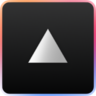
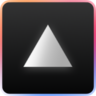
theme config

Changed region(s): [[0.2188, 0.25, 0.7812, 0.75]]

diff --git a/apps/docs/theme.config.jsx b/apps/docs/theme.config.jsx
@@ -5,7 +5,205 @@ export default {
   project: {
     link: 'https://github.com/shuding/nextra'
   },
-  logo: <strong>AI Utils</strong>,
+  logo: (
+    <span className="flex gap-2 font-bold text-lg items-center select-none">
+      <svg
+        xmlns="http://www.w3.org/2000/svg"
+        height="24"
+        fill="none"
+        viewBox="0 0 1024 1024"
+      >
+        <g clipPath="url(#clip0_102_208)">
+          <rect
+            width="977.455"
+            height="977.455"
+            x="23.273"
+            y="23.273"
+            fill="url(#paint0_linear_102_208)"
+            rx="79.515"
+          ></rect>
+          <g filter="url(#filter0_di_102_208)">
+            <path
+              fill="url(#paint1_linear_102_208)"
+              d="M511.03 306.424l210.424 362.667H300.606L511.03 306.424z"
+            ></path>
+          </g>
+          <mask
+            id="mask0_102_208"
+            style={{ maskType: 'alpha' }}
+            width="1024"
+            height="1024"
+            x="0"
+            y="0"
+            maskUnits="userSpaceOnUse"
+          >
+            <rect
+              width="1000.73"
+              height="1000.73"
+              x="11.636"
+              y="11.636"
+              stroke="#000"
+              strokeWidth="23.273"
+              rx="91.151"
+            ></rect>
+          </mask>
+          <g filter="url(#filter1_f_102_208)" mask="url(#mask0_102_208)">
+            <path
+              fill="url(#paint2_linear_102_208)"
+              d="M-88.638 197.111l277.355-340.626L630.689 41.738c37.58 187.244 55.072 561.734-175.591 561.734-194.273 0-240.351-110.687-239.325-192.224-23.622 150.658-122.154 378.807-377.242 339.629-43.1-30.278 30.596-381.793 72.83-553.766z"
+            ></path>
+            <path
+              fill="url(#paint3_linear_102_208)"
+              d="M514.513 329.324l339.424 273.797 333.033 24.789c-80.41 173.273-287.78 485.83-473.947 349.874-186.167-135.958-279.862 250.156-219.226 197.766-94.394 110.83-164.922-242.362-365.58-442.213-16.878-49.841 250.498-290.109 386.296-404.013z"
+            ></path>
+            <path
+              fill="url(#paint4_linear_102_208)"
+              d="M987.377 739.387L569.385 614.252 251.741 717.175c8.717-190.768 82.117-558.433 305.986-502.955 223.869 55.478 164.166-337.305 127.908-265.904 45.342-138.248 244.558 161.995 506.075 271.134 34.52 39.752-121.84 363.188-204.333 519.937z"
+            ></path>
+          </g>
+        </g>
+        <defs>
+          <filter
+            id="filter0_di_102_208"
+            width="579.879"
+            height="521.697"
+            x="221.091"
+            y="242.424"
+            colorInterpolationFilters="sRGB"
+            filterUnits="userSpaceOnUse"
+          >
+            <feFlood floodOpacity="0" result="BackgroundImageFix"></feFlood>
+            <feColorMatrix
+              in="SourceAlpha"
+              result="hardAlpha"
+              values="0 0 0 0 0 0 0 0 0 0 0 0 0 0 0 0 0 0 127 0"
+            ></feColorMatrix>
+            <feOffset dy="15.515"></feOffset>
+            <feGaussianBlur stdDeviation="39.758"></feGaussianBlur>
+            <feComposite in2="hardAlpha" operator="out"></feComposite>
+            <feColorMatrix values="0 0 0 0 0 0 0 0 0 0 0 0 0 0 0 0 0 0 0.25 0"></feColorMatrix>
+            <feBlend
+              in2="BackgroundImageFix"
+              result="effect1_dropShadow_102_208"
+            ></feBlend>
+            <feBlend
+              in="SourceGraphic"
+              in2="effect1_dropShadow_102_208"
+              result="shape"
+            ></feBlend>
+            <feColorMatrix
+              in="SourceAlpha"
+              result="hardAlpha"
+              values="0 0 0 0 0 0 0 0 0 0 0 0 0 0 0 0 0 0 127 0"
+            ></feColorMatrix>
+            <feOffset dx="0.97" dy="13.576"></feOffset>
+            <feGaussianBlur stdDeviation="0.97"></feGaussianBlur>
+            <feComposite
+              in2="hardAlpha"
+              k2="-1"
+              k3="1"
+              operator="arithmetic"
+            ></feComposite>
+            <feColorMatrix values="0 0 0 0 0.0286285 0 0 0 0 0.0404458 0 0 0 0 0.0708333 0 0 0 0.06 0"></feColorMatrix>
+            <feBlend in2="shape" result="effect2_innerShadow_102_208"></feBlend>
+          </filter>
+          <filter
+            id="filter1_f_102_208"
+            width="2146.91"
+            height="2115.88"
+            x="-562.424"
+            y="-531.394"
+            colorInterpolationFilters="sRGB"
+            filterUnits="userSpaceOnUse"
+          >
+            <feFlood floodOpacity="0" result="BackgroundImageFix"></feFlood>
+            <feBlend
+              in="SourceGraphic"
+              in2="BackgroundImageFix"
+              result="shape"
+            ></feBlend>
+            <feGaussianBlur
+              result="effect1_foregroundBlur_102_208"
+              stdDeviation="193.939"
+            ></feGaussianBlur>
+          </filter>
+          <linearGradient
+            id="paint0_linear_102_208"
+            x1="512"
+            x2="512"
+            y1="23.273"
+            y2="1000.73"
+            gradientUnits="userSpaceOnUse"
+          >
+            <stop stopColor="#333434"></stop>
+            <stop offset="1" stopColor="#060606"></stop>
+          </linearGradient>
+          <linearGradient
+            id="paint1_linear_102_208"
+            x1="249.709"
+            x2="750.212"
+            y1="532.522"
+            y2="688.409"
+            gradientUnits="userSpaceOnUse"
+          >
+            <stop stopColor="#fff"></stop>
+            <stop offset="0.089" stopColor="#FEFEFE"></stop>
+            <stop offset="0.161" stopColor="#FCFCFC"></stop>
+            <stop offset="0.22" stopColor="#F9F9F9"></stop>
+            <stop offset="0.267" stopColor="#F5F5F5"></stop>
+            <stop offset="0.305" stopColor="#F0F0F0"></stop>
+            <stop offset="0.336" stopColor="#EAEAEA"></stop>
+            <stop offset="0.364" stopColor="#E3E3E3"></stop>
+            <stop offset="0.391" stopColor="#DCDCDC"></stop>
+            <stop offset="0.418" stopColor="#D5D5D5"></stop>
+            <stop offset="0.45" stopColor="#CDCDCD"></stop>
+            <stop offset="0.488" stopColor="#C6C6C6"></stop>
+            <stop offset="0.535" stopColor="#BEBEBE"></stop>
+            <stop offset="0.593" stopColor="#B7B7B7"></stop>
+            <stop offset="0.666" stopColor="#B0B0B0"></stop>
+            <stop offset="0.755" stopColor="#AAA"></stop>
+          </linearGradient>
+          <linearGradient
+            id="paint2_linear_102_208"
+            x1="511.03"
+            x2="511.03"
+            y1="-143.515"
+            y2="1196.61"
+            gradientUnits="userSpaceOnUse"
+          >
+            <stop stopColor="#F90"></stop>
+            <stop offset="1" stopColor="#F09"></stop>
+          </linearGradient>
+          <linearGradient
+            id="paint3_linear_102_208"
+            x1="511.03"
+            x2="511.03"
+            y1="-420.532"
+            y2="923.552"
+            gradientUnits="userSpaceOnUse"
+          >
+            <stop stopColor="#00D1FF"></stop>
+            <stop offset="1" stopColor="#0057FF"></stop>
+          </linearGradient>
+          <linearGradient
+            id="paint4_linear_102_208"
+            x1="420.072"
+            x2="1100.96"
+            y1="571.6"
+            y2="202.116"
+            gradientUnits="userSpaceOnUse"
+          >
+            <stop stopColor="#AD00FF"></stop>
+            <stop offset="1" stopColor="red"></stop>
+          </linearGradient>
+          <clipPath id="clip0_102_208">
+            <path fill="#fff" d="M0 0H1024V1024H0z"></path>
+          </clipPath>
+        </defs>
+      </svg>
+      AI Utils
+    </span>
+  ),
   useNextSeoProps: () => {
     const { title } = useConfig()
     return {
@@ -118,21 +316,14 @@ export default {
       </>
     )
   },
+  docsRepositoryBase:
+    'https://github.com/vercel-labs/ai-utils/tree/main/apps/docs',
   project: {
     link: 'https://github.com/vercel-labs/ai-utils'
   },
   footer: {
     text: (
-      <div
-        style={{
-          display: 'flex',
-          flexDirection: 'column',
-          justifyContent: 'flex-start',
-          alignItems: 'flex-start',
-          gap: '1rem',
-          fontSize: '0.8rem'
-        }}
-      >
+      <div className="flex flex-col justify-center items-center md:items-start gap-4 text-sm text-center">
         <a href="https://vercel.com/" target="_blank">
           <svg
             xmlns="http://www.w3.org/2000/svg"

diff --git a/apps/docs/styles.css b/apps/docs/styles.css
@@ -27,3 +27,15 @@ body {
     fixed 0 0 / 20px 20px radial-gradient(#313131 1px, transparent 0),
     fixed 10px 10px / 20px 20px radial-gradient(#313131 1px, transparent 0);
 }
+
+.main-title {
+  background: linear-gradient(180deg, #555, #000);
+  background-clip: text;
+  -webkit-text-fill-color: transparent;
+}
+
+.dark .main-title {
+  background: linear-gradient(180deg, #fff, #aaa);
+  background-clip: text;
+  -webkit-text-fill-color: transparent;
+}

diff --git a/apps/docs/tailwind.config.js b/apps/docs/tailwind.config.js
@@ -2,6 +2,6 @@ module.exports = {
   content: [
     './components/**/*.js',
     './pages/**/*.{md,mdx}',
-    './theme.config.js'
+    './theme.config.jsx'
   ]
 }
